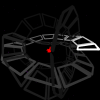
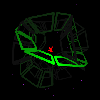
tilt

diff --git a/2026/articulation/main.js b/2026/articulation/main.js
@@ -61,8 +61,11 @@ async function main() {
 
     Mat4
       .multiply(
-        Mat4.b.setTranslateXyz(0, 0, 250),
-        Mat4.a.setRotateZx(time / 5000),
+        Mat4.c.setRotateYz(-0.2),
+        Mat4.a.setTranslateXyz(0, -50, 250),
+      ).inplaceMultiplyRight(
+        Mat4.b.setRotateZx(-time / 5000),
+        // Mat4.b.setRotateZx(0),
       )
       .exportToArrayBuffer(hexLines.transformMatrix);
 
@@ -71,7 +74,7 @@ async function main() {
       let current = roots[i];
       while (current !== null) {
         current.articulatedAngle =
-          Math.sin(i + depth + time / (1000 + depth * 100))
+          Math.sin(i + depth + time / (1000 + (i + depth) * 100))
           * TAU * ((1 + 0.5 * Math.sin(time / 10000))) / 10
           * (depth === 1 ? 0.5 : 1);
         current = current.next;
@@ -116,64 +119,67 @@ class Articulation {
     this.endDirection = new Vec3();
   }
 
-  draw(hexLines, depth, baseAxis, baseDirection) {
-    this.sideDirection.setCross(baseAxis, baseDirection);
+  draw(hexLines, depth, startAxis, startDirection) {
+    this.sideDirection.setCross(startAxis, startDirection);
 
     this.articulatedDirection.setSum(
       Math.cos(this.articulatedAngle),
-      baseDirection,
+      startDirection,
       Math.sin(this.articulatedAngle),
       this.sideDirection,
     );
 
     this.endAxis.setSum(
       this.cosArc,
-      baseAxis,
+      startAxis,
       this.sinArc,
       this.articulatedDirection,
     );
 
     this.endDirection.setSum(
       -this.sinArc,
-      baseAxis,
+      startAxis,
       this.cosArc,
       this.articulatedDirection,
     );
 
     const straightArcDirection = Vec3.a.setDelta(
-      Vec3.b.setScale(this.startRadius, baseAxis),
+      Vec3.b.setScale(this.startRadius, startAxis),
       Vec3.c.setScale(this.startRadius, this.endAxis),
     ).inplaceNormalise();
 
-    const size = 5;
-    const g = 255 / (1 + depth / 1.5);
-    const r = Math.min(g, (255 - g) / 15);
-    const b = r;
     const margin = 5;
+    const size = 5;
+    const startG = 255 / (1 + depth / 1.5);
+    const startR = Math.min(startG, (255 - startG) / 15);
+    const startB = startR;
+    const endG = 255 / (1 + (depth + 1) / 1.5);
+    const endR = Math.min(endG, (255 - endG) / 15);
+    const endB = endR;
     addPoint(
       hexLines,
-      Vec3.sum(this.startRadius, baseAxis, margin, straightArcDirection),
-      size, r, g, b,
+      Vec3.sum(this.startRadius, startAxis, margin, straightArcDirection),
+      size, startR, startG, startB,
     );
     addPoint(
       hexLines,
       Vec3.sum(this.startRadius, this.endAxis, -margin, straightArcDirection),
-      size, r, g, b,
+      size, endR, endG, endB,
     );
     addPoint(
       hexLines,
       Vec3.sum(this.endRadius, this.endAxis, -margin, straightArcDirection),
-      size, r, g, b,
+      size, endR, endG, endB,
     );
     addPoint(
       hexLines,
-      Vec3.sum(this.endRadius, baseAxis, margin, straightArcDirection),
-      size, r, g, b,
+      Vec3.sum(this.endRadius, startAxis, margin, straightArcDirection),
+      size, startR, startG, startB,
     );
     addPoint(
       hexLines,
-      Vec3.sum(this.startRadius, baseAxis, margin, straightArcDirection),
-      size, r, g, b,
+      Vec3.sum(this.startRadius, startAxis, margin, straightArcDirection),
+      size, startR, startG, startB,
     );
     hexLines.addNull();
 
